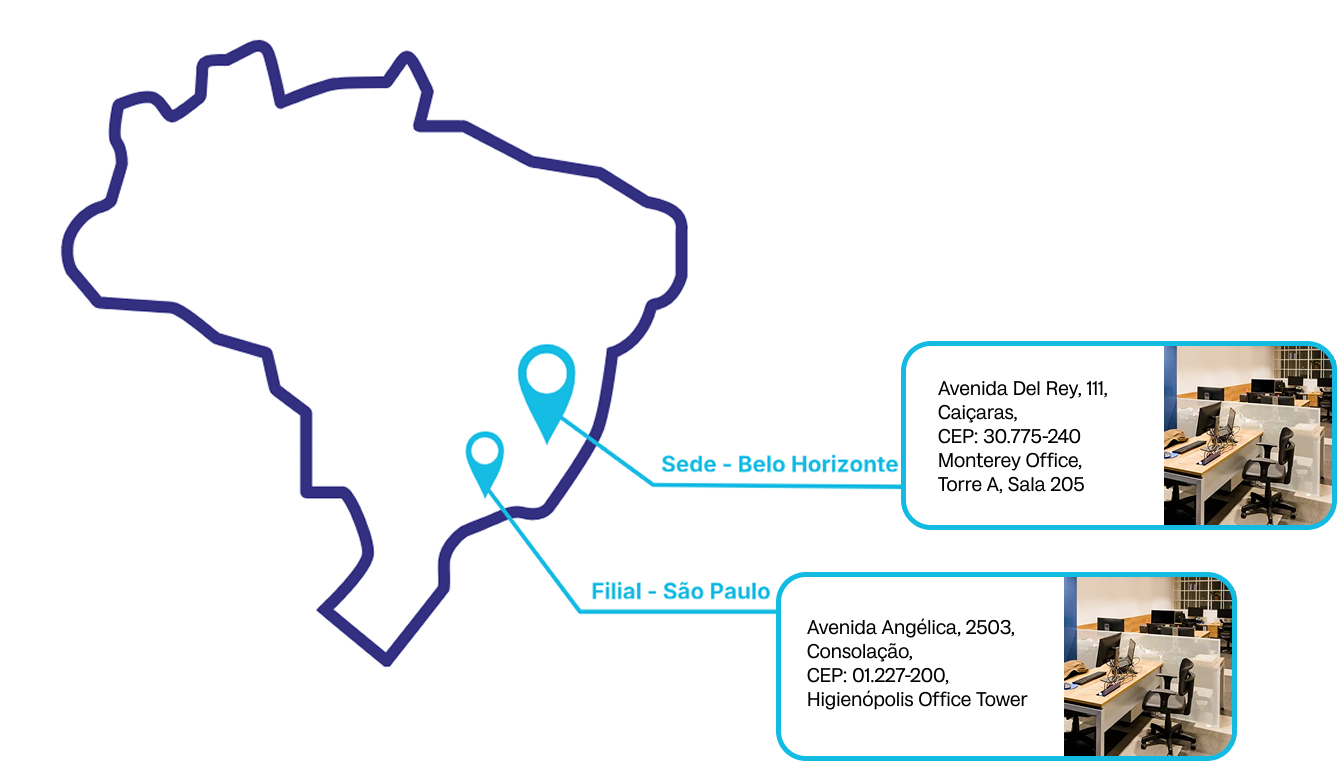
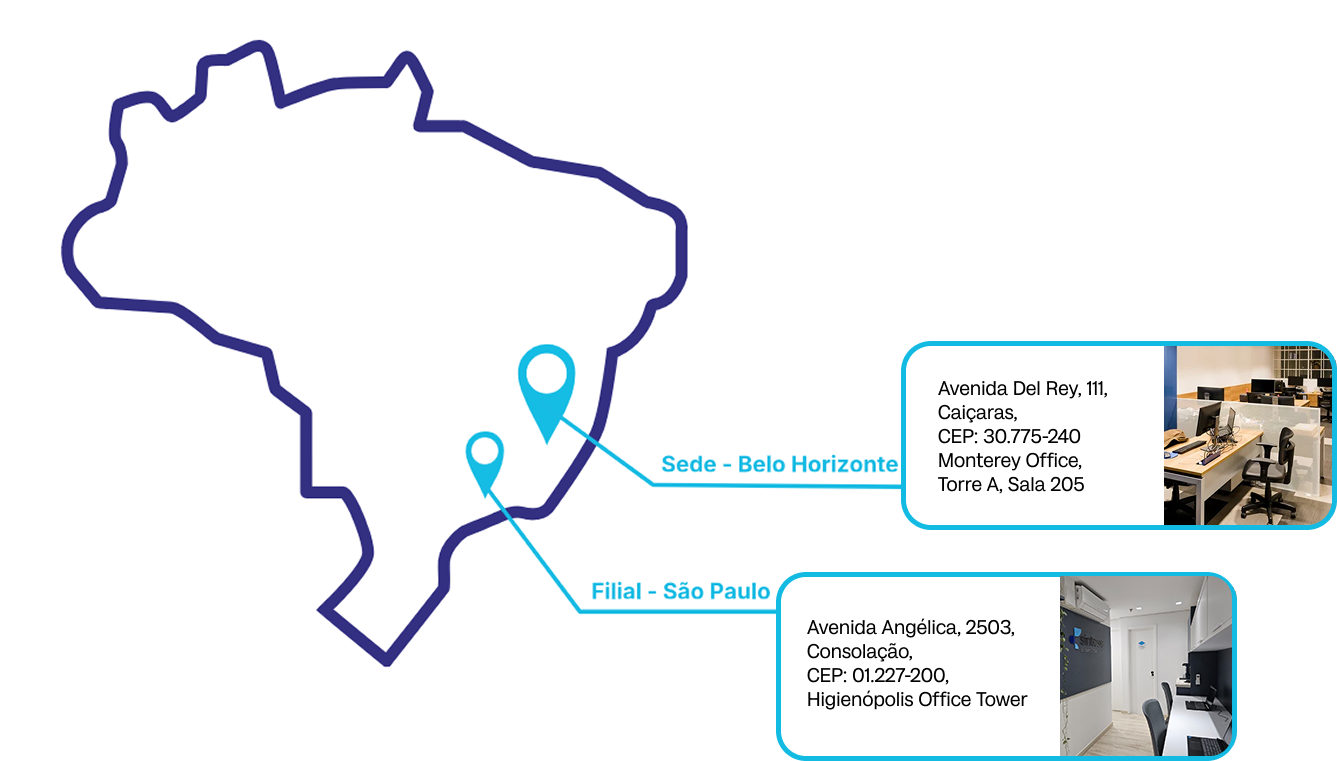
Alterações_solicitadas_RC_2.0

Changed region(s): [[0.7666, 0.7556, 0.92, 0.9974]]

diff --git a/src/Components/Cabecalho/index.js b/src/Components/Cabecalho/index.js
@@ -1,4 +1,4 @@
-import { Link } from "react-router-dom";
+import { Link, useLocation } from "react-router-dom"; // Importamos o useLocation
 import React, { useState } from "react";
 import logo from '../../assets/imagens/SINTESE_MARCA-1.png';
 import styles from './cabecalho.module.css';
@@ -8,49 +8,71 @@ import { FaBars, FaTimes } from "react-icons/fa";
 
 function Cabecalho() {
     const [menuAberto, setMenuAberto] = useState(false);
+    
+    // Inicializamos o hook para pegar a rota atual
+    const location = useLocation(); 
 
     const toggleMenu = () => {
         setMenuAberto(!menuAberto);
     };
 
-    return (
+    // Função auxiliar que retorna a classe 'ativo' se o caminho bater com a URL atual
+    const classeAtiva = (caminho) => {
+        return location.pathname === caminho ? styles.ativo : "";
+    };
 
+    return (
         <header className={styles.cabecalho}>
-          
             <Link to="/">
                 <img src={logo} alt="sintese" />
             </Link>
+            
             <button className={styles.menuToggle} onClick={toggleMenu}>
                 {menuAberto ? <FaTimes /> : <FaBars />}
             </button>
 
             <nav className={`${styles.nav} ${menuAberto ? styles.aberto : ""}`}>
-                <Botao tipo="primario">
-                    <Cabecalholink URL="/">Home</Cabecalholink>
-                </Botao>
+                {/* Aplicamos a verificação em uma div ou span ao redor do item */}
+                <div className={classeAtiva("/")}>
+                    <Botao tipo="primario">
+                        <Cabecalholink URL="/">Home</Cabecalholink>
+                    </Botao>
+                </div>
+                
                 <div className={styles.divisor}></div>
-                <Botao tipo="primario">
-                    <Cabecalholink URL="/sobre">Sobre</Cabecalholink>
-                </Botao>
+                
+                <div className={classeAtiva("/sobre")}>
+                    <Botao tipo="primario">
+                        <Cabecalholink URL="/sobre">Sobre</Cabecalholink>
+                    </Botao>
+                </div>
+                
                 <div className={styles.divisor}></div>
-                <Botao tipo="primario">
-                    <Cabecalholink URL="/eventos">Eventos</Cabecalholink>
-                </Botao>
+                
+                <div className={classeAtiva("/eventos")}>
+                    <Botao tipo="primario">
+                        <Cabecalholink URL="/eventos">Eventos</Cabecalholink>
+                    </Botao>
+                </div>
+                
                 <div className={styles.divisor}></div>
-                <Botao tipo="primario">
-                    <Cabecalholink URL="/contato">Contato</Cabecalholink>
-                </Botao>
+                
+                <div className={classeAtiva("/contato")}>
+                    <Botao tipo="primario">
+                        <Cabecalholink URL="/contato">Contato</Cabecalholink>
+                    </Botao>
+                </div>
+                
                 <div className={styles.divisor}></div>
-                <Link to="/catalogo" className={styles.linkButton}>
+                
+                {/* Como esse é um Link direto, podemos aplicar as classes juntas */}
+                <Link to="/catalogo" className={`${styles.linkButton} ${classeAtiva("/catalogo")}`}>
                     CATÁLOGO
                 </Link>
             </nav>
 
-         <div className={styles.divider}></div>
+            <div className={styles.divider}></div>
         </header>
-          
-
-        
     );
 }
 

diff --git a/src/Components/contato/index.js b/src/Components/contato/index.js
@@ -1,7 +1,6 @@
 import React, { useState } from 'react';
 import styles from './contato.module.css';
-import whatsappIcon from '../../assets/imagens/whatsapp.png';
-import mapaImg from '../../assets/imagens/mapa_contato.png';
+// import mapaImg from '../../assets/imagens/mapa_contato.png'; // <- Remova ou comente esta linha
 
 const Contato = () => {
   const [formData, setFormData] = useState({
@@ -20,16 +19,13 @@ const Contato = () => {
       ...prev,
       [name]: value
     }));
-    // Limpa o erro do campo quando usuário digita
     if (errors[name]) {
       setErrors(prev => ({ ...prev, [name]: '' }));
     }
   };
 
   const validarTelefone = (telefone) => {
-    // Remove tudo que não é número
     const numeros = telefone.replace(/\D/g, '');
-    // Valida se tem 10 ou 11 dígitos (com DDD)
     return numeros.length >= 10 && numeros.length <= 11;
   };
 
@@ -75,7 +71,6 @@ const Contato = () => {
     setLoading(true);
 
     try {
-      // Aqui você vai fazer a requisição para sua API
       const response = await fetch('http://201.23.76.238:5000/api/contato', {
         method: 'POST',
         headers: {
@@ -120,22 +115,24 @@ const Contato = () => {
             <p className={styles.infoTexto}>+55 31 3234-0000</p>
           </div>
 
+          {/* MAPA DO GOOGLE AQUI */}
+{/* MAPA DO GOOGLE AQUI */}
           <div className={styles.mapaContainer}>
-            <img src={mapaImg} alt="Localização" />
+            <iframe
+              src="https://www.google.com/maps/embed?pb=!1m18!1m12!1m3!1d4616.425796048703!2d-43.96940322388624!3d-19.892272737136587!2m3!1f0!2f0!3f0!3m2!1i1024!2i768!4f13.1!3m3!1m2!1s0xa6905e898c0001%3A0xd441ff3716b9a8e4!2sS%C3%ADntese%20Biotecnologia!5e1!3m2!1spt-BR!2sbr!4v1775005931328!5m2!1spt-BR!2sbr"
+              width="100%"
+              height="450"
+              style={{ border: 0, borderRadius: '8px' }}
+              allowFullScreen=""
+              loading="lazy"
+              referrerPolicy="no-referrer-when-downgrade"
+              title="Mapa de Localização"
+            ></iframe>
           </div>
         </div>
 
         {/* Lado Direito - Formulário */}
         <div className={styles.contatoForm}>
-          <a 
-            href="https://wa.me/5531999999999" 
-            target="_blank" 
-            rel="noopener noreferrer"
-            className={styles.whatsappBtn}
-          >
-            <img src={whatsappIcon} alt="WhatsApp" />
-          </a>
-
           <form onSubmit={handleSubmit}>
             <div className={styles.formGroup}>
               <input

diff --git a/src/Components/estatistica/index.js b/src/Components/estatistica/index.js
@@ -11,8 +11,8 @@ const Estatisticas = () => {
       <div className={styles.statsContainer}>
         <div className={styles.statCard}>
           <img src={iconMarcas} alt="Marcas Mundiais" className={styles.statIcon} />
-          <h3 className={styles.statNumber}>20+</h3>
-          <p className={styles.statLabel}>marcas mundiais</p>
+          <h3 className={styles.statNumber}>27</h3>
+          <p className={styles.statLabel}>Estados presença nacional</p>
         </div>
 
         <div className={styles.statCard}>

diff --git a/src/pages/Carrinho/index.js b/src/pages/Carrinho/index.js
@@ -94,7 +94,7 @@ const Carrinho = () => {
                                         className={styles.btnFazerCotacao}
                                         onClick={handleFazerCotacao}
                                     >
-                                        FAZER COTAÇÃO
+                                        SOLICITAR COTAÇÃO
                                     </button>
                                     <button
                                         className={styles.btnLimpar}

diff --git a/src/Components/Cabecalho/cabecalho.module.css b/src/Components/Cabecalho/cabecalho.module.css
@@ -140,6 +140,15 @@ img {
     width: 150px;
   }
 }
+/* Adicione isso ao final do seu arquivo cabecalho.module.css */
+
+.ativo a, 
+.ativo button,
+.ativo {
+    font-weight: bold; /* Deixa o texto em negrito */
+    /* Você também pode adicionar outras coisas, como mudar a cor: */
+    /* color: #FF5733; */ 
+}
 
 @media (max-width: 480px) {
   .cabecalho {

diff --git a/src/Components/resumocarrinho/index.js b/src/Components/resumocarrinho/index.js
@@ -31,7 +31,7 @@ const ResumoCarrinho = () => {
           className={styles.btnFazerCotacao}
           onClick={handleFazerCotacao}
         >
-          FAZER COTAÇÃO
+          SOLICITAR COTAÇÃO
         </button>
         
         <button 
